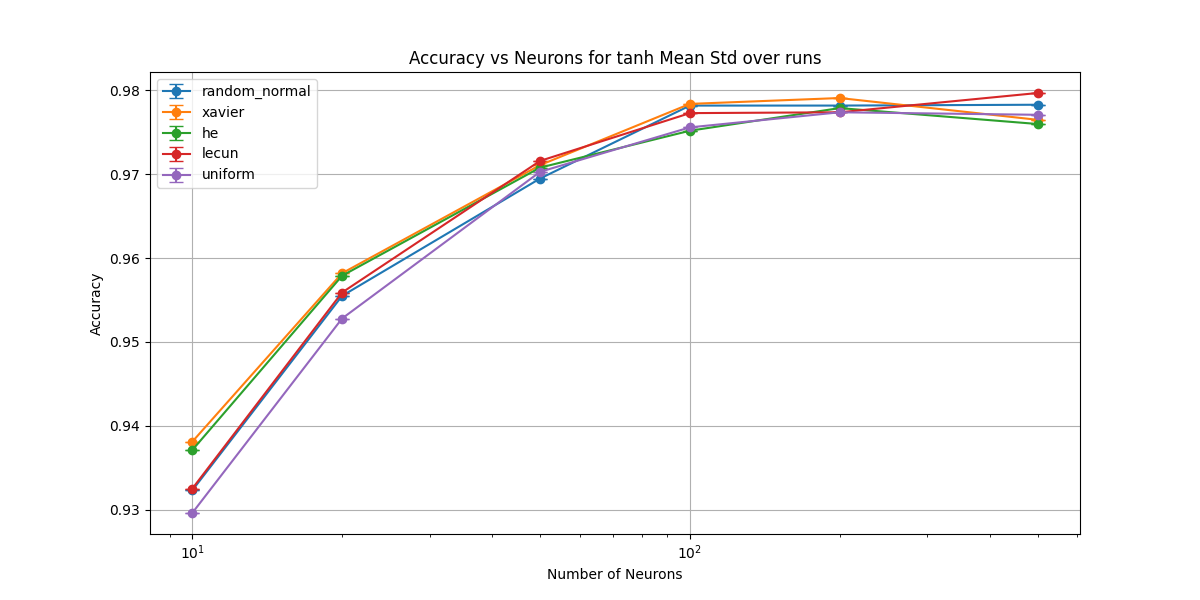
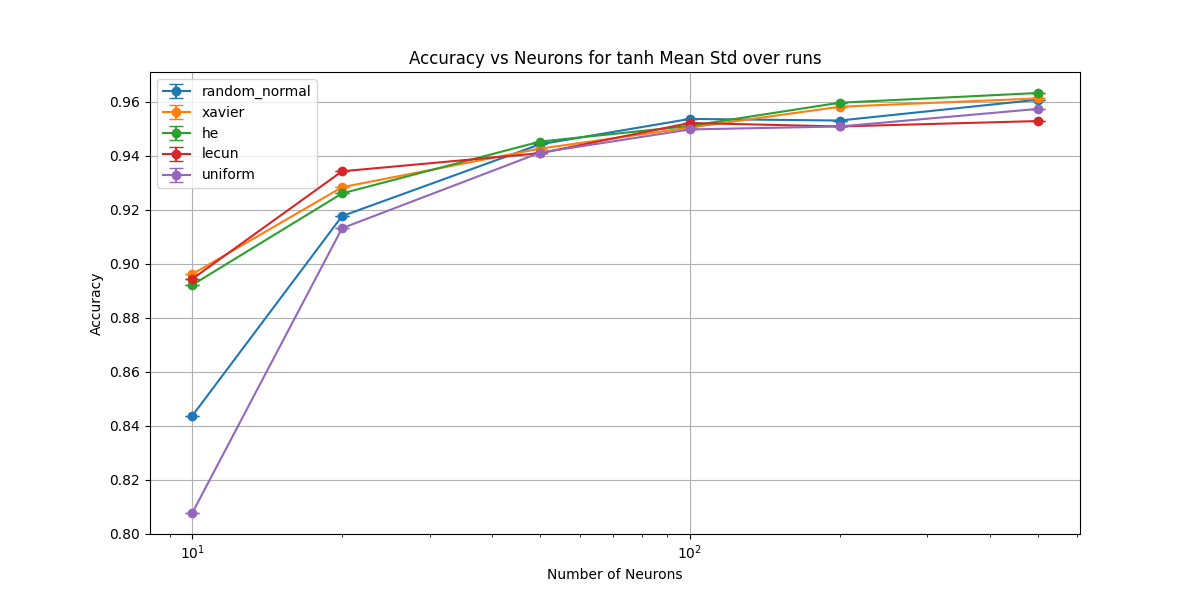
fixing the epoch to one

diff --git a/MLP_PA.py b/MLP_PA.py
@@ -1,35 +1,73 @@
-import numpy as np
 import torch
 import torch.nn as nn
 import torch.optim as optim
 from torch.utils.data import DataLoader, TensorDataset
 from torchvision.datasets import MNIST
 from torchvision.transforms import ToTensor
+import numpy as np
 import matplotlib.pyplot as plt
 import time
 from tqdm import tqdm
 
-# Check if CUDA is available and set device
+# Verificar disponibilidade da CUDA e definir dispositivo
 device = torch.device("cuda" if torch.cuda.is_available() else "cpu")
-print(f"Using device: {device}")
+print(f"Usando dispositivo: {device}")
 
-# Load MNIST dataset
+# ====================== Funções de Rewiring PA ==============================
+def rewiring_torch(weights, seed=None):
+    dimensions = weights.shape
+    if seed:
+        torch.manual_seed(seed)
+    
+    st = torch.zeros(dimensions[1], device=weights.device)
+    for neuron in range(1, dimensions[0]):
+        st = st + weights[neuron - 1]
+        P = st + torch.abs(torch.min(st)) + 1
+        P = P / torch.sum(P)
+        
+        # Criar distribuição multinomial para amostragem
+        targets = torch.multinomial(P, dimensions[1], replacement=False)
+        
+        edges_to_rewire = torch.argsort(weights[neuron])
+        weights[neuron, targets] = weights[neuron, edges_to_rewire]
+    return weights
+
+def PA_rewiring_torch(weights, seed=None):
+    if weights.ndim < 2:
+        raise ValueError("Apenas tensores 2D ou superiores são suportados")
+    
+    original_shape = weights.shape
+    output_neurons = weights.shape[0]
+    input_neurons = weights.numel() // output_neurons
+    
+    weights_out = weights.view((output_neurons, input_neurons)).clone()
+    weights_out = rewiring_torch(weights_out, seed)  # Rewiring nas linhas
+    
+    # Rewiring nas colunas (transpor, rewiring, transpor de volta)
+    weights_out_transposed = weights_out.t()
+    weights_out_transposed = rewiring_torch(weights_out_transposed, seed)
+    weights_out = weights_out_transposed.t()
+    
+    return weights_out.view(original_shape)
+# =============================================================================
+
+# Carregar dataset MNIST
 train_dataset = MNIST(root='./data', train=True, download=True, transform=ToTensor())
 test_dataset = MNIST(root='./data', train=False, download=True, transform=ToTensor())
 
-# Convert to numpy arrays and preprocess
+# Converter para arrays numpy e pré-processar
 x_train = train_dataset.data.numpy().reshape(-1, 784).astype('float32') / 255.0
 y_train = train_dataset.targets.numpy()
 x_test = test_dataset.data.numpy().reshape(-1, 784).astype('float32') / 255.0
 y_test = test_dataset.targets.numpy()
 
-# Convert to PyTorch tensors and move to device
+# Converter para tensores PyTorch e mover para o dispositivo
 x_train_tensor = torch.tensor(x_train, dtype=torch.float32).to(device)
 y_train_tensor = torch.tensor(y_train, dtype=torch.long).to(device)
 x_test_tensor = torch.tensor(x_test, dtype=torch.float32).to(device)
 y_test_tensor = torch.tensor(y_test, dtype=torch.long).to(device)
 
-# Configuration
+# Configuração
 neurons_list = [10, 20, 50, 100, 200, 500]
 init_methods = ['random_normal', 'xavier', 'he', 'lecun', 'uniform']
 activations = {
@@ -37,11 +75,11 @@ activations = {
     'sigmoid': nn.Sigmoid(),
     'tanh': nn.Tanh()
 }
-n_runs = 1
-batch_size = 60
-epochs = 1
+n_runs = 5
+batch_size = 128
+epochs = 10
 
-# Initialize results dictionary (same structure as before)
+# Dicionário de resultados
 results = {
     act_name: {
         init_method: {
@@ -81,10 +119,14 @@ class MLP(nn.Module):
         self.output = nn.Linear(n_neurons, 10)
         self.activation = activation
         
-        # Apply weight initialization
+        # Aplicar inicialização
         self.apply(get_initializer(init_method))
         
-        # Move model to device
+        # Aplicar rewiring uma vez após inicialização
+        with torch.no_grad():
+            self.layer1.weight.data = PA_rewiring_torch(self.layer1.weight.data)
+            self.layer2.weight.data = PA_rewiring_torch(self.layer2.weight.data)
+        
         self.to(device)
     
     def forward(self, x):
@@ -97,11 +139,10 @@ def train_model(model, train_loader, test_loader):
     criterion = nn.CrossEntropyLoss()
     optimizer = optim.Adam(model.parameters())
     
-    # Training loop
+    # Loop de treinamento
     model.train()
     for epoch in range(epochs):
         for inputs, labels in train_loader:
-            # Move data to GPU
             inputs, labels = inputs.to(device), labels.to(device)
             
             optimizer.zero_grad()
@@ -110,7 +151,7 @@ def train_model(model, train_loader, test_loader):
             loss.backward()
             optimizer.step()
     
-    # Evaluation
+    # Avaliação
     model.eval()
     correct = 0
     total = 0
@@ -125,7 +166,7 @@ def train_model(model, train_loader, test_loader):
     return correct / total
 
 def get_weight_stats(model):
-    # Move weights to CPU for numpy conversion if they're on GPU
+    # Mover pesos para CPU para conversão numpy se estiverem na GPU
     W1 = model.layer1.weight.data.cpu().numpy()
     W2 = model.layer2.weight.data.cpu().numpy()
     return {
@@ -135,24 +176,24 @@ def get_weight_stats(model):
         'W2_std': np.std(W2)
     }
 
-# Main experiment loop
+# Loop principal do experimento
 for act_name, activation in activations.items():
-    print(f"\nTesting activation: {act_name}")
+    print(f"\nTestando ativação: {act_name}")
     for init_method in init_methods:
-        print(f"\nInitialization method: {init_method}")
+        print(f"\nMétodo de inicialização: {init_method}")
         for i, n_neurons in enumerate(tqdm(neurons_list)):
             accuracies = []
             train_times = []
             weight_stats_list = []
             
             for run in range(n_runs):
-                # Create data loaders
+                # Criar data loaders
                 train_dataset = TensorDataset(x_train_tensor, y_train_tensor)
                 train_loader = DataLoader(train_dataset, batch_size=batch_size, shuffle=True)
                 test_dataset = TensorDataset(x_test_tensor, y_test_tensor)
                 test_loader = DataLoader(test_dataset, batch_size=batch_size, shuffle=False)
                 
-                # Create and train model
+                # Criar e treinar modelo
                 model = MLP(n_neurons, activation, init_method)
                 
                 start_time = time.time()
@@ -165,13 +206,13 @@ for act_name, activation in activations.items():
                 train_times.append(train_time)
                 weight_stats_list.append(weight_stats)
             
-            # Store results
+            # Armazenar resultados
             results[act_name][init_method]['accuracy_mean'][i] = np.mean(accuracies)
             results[act_name][init_method]['accuracy_std'][i] = np.std(accuracies)
             results[act_name][init_method]['train_time_mean'][i] = np.mean(train_times)
             results[act_name][init_method]['train_time_std'][i] = np.std(train_times)
             
-            # Average weight statistics across runs
+            # Estatísticas médias dos pesos entre as execuções
             avg_weight_stats = {
                 'W1_mean': np.mean([stat['W1_mean'] for stat in weight_stats_list]),
                 'W1_std': np.mean([stat['W1_std'] for stat in weight_stats_list]),
@@ -180,12 +221,16 @@ for act_name, activation in activations.items():
             }
             results[act_name][init_method]['weight_stats'][i] = avg_weight_stats
 
-# Plotting functions (same as before)
+# Função de plotagem (mesma de antes)
 def plot_results(results, activations, init_methods):
-    """Plot all results with error bars"""
-    colors = plt.cm.tab10.colors  # Color palette for different initialization methods
+    """Plotar todos os resultados com barras de erro"""
+    colors = plt.cm.tab10.colors
     
-    # Plot Accuracy vs Neurons for each activation function
+    # Criar diretório de saída
+    import os
+    os.makedirs('plots', exist_ok=True)
+    
+    # Plotar Acurácia vs Neurônios
     for act_name in activations.keys():
         plt.figure(figsize=(12, 6))
         for i, init_method in enumerate(init_methods):
@@ -197,15 +242,16 @@ def plot_results(results, activations, init_methods):
                 color=colors[i]
             )
         plt.xscale('log')
-        plt.xlabel('Number of Neurons')
-        plt.ylabel('Accuracy')
-        title = f'Accuracy_vs_Neurons_for_{act_name}_Mean_Std_over_runs'
-        plt.title(title.replace('_', ' '))  # Show nice title with spaces
+        plt.xlabel('Número de Neurônios')
+        plt.ylabel('Acurácia')
+        title = f'Acurácia_vs_Neurônios_para_{act_name}_Média_Desvio_PA'
+        plt.title(title.replace('_', ' '))
         plt.legend()
         plt.grid()
-        plt.savefig(f"{title}.png")  # Save with proper filename
+        plt.savefig(f'plots/{title}.png', dpi=300, bbox_inches='tight')
+        plt.show()
         
-        # Plot Training Time vs Neurons
+        # Plotar Tempo de Treinamento vs Neurônios
         plt.figure(figsize=(12, 6))
         for i, init_method in enumerate(init_methods):
             data = results[act_name][init_method]
@@ -216,74 +262,76 @@ def plot_results(results, activations, init_methods):
                 color=colors[i]
             )
         plt.xscale('log')
-        plt.xlabel('Number of Neurons')
-        plt.ylabel('Training Time (s)')
-        title = f'Training_Time_vs_Neurons_for_{act_name}'
+        plt.xlabel('Número de Neurônios')
+        plt.ylabel('Tempo de Treinamento (s)')
+        title = f'Tempo_Treinamento_vs_Neurônios_para_{act_name}_PA'
         plt.title(title.replace('_', ' '))
         plt.legend()
         plt.grid()
-        plt.savefig(f"{title}.png")
+        plt.savefig(f'plots/{title}.png', dpi=300, bbox_inches='tight')
+        plt.show()
     
-    # Plot Weight Statistics
+    # Plotar Estatísticas dos Pesos
     for act_name in activations.keys():
         plt.figure(figsize=(15, 10))
         
-        # W1 Mean
+        # W1 Média
         plt.subplot(2, 2, 1)
         for i, init_method in enumerate(init_methods):
             data = results[act_name][init_method]
             w1_means = [stat['W1_mean'] for stat in data['weight_stats']]
             plt.plot(data['neurons'], w1_means, 'o-', label=init_method, color=colors[i])
         plt.xscale('log')
-        plt.xlabel('Number of Neurons')
-        plt.ylabel('Mean Weight Value')
-        plt.title(f'W1 Mean for {act_name}')
+        plt.xlabel('Número de Neurônios')
+        plt.ylabel('Valor Médio do Peso')
+        plt.title(f'W1 Média para {act_name}')
         plt.legend()
         plt.grid()
         
-        # W1 Std
+        # W1 Desvio Padrão
         plt.subplot(2, 2, 2)
         for i, init_method in enumerate(init_methods):
             data = results[act_name][init_method]
             w1_stds = [stat['W1_std'] for stat in data['weight_stats']]
             plt.plot(data['neurons'], w1_stds, 'o-', label=init_method, color=colors[i])
         plt.xscale('log')
-        plt.xlabel('Number of Neurons')
-        plt.ylabel('Weight Std Dev')
-        plt.title(f'W1 Standard Deviation for {act_name}')
+        plt.xlabel('Número de Neurônios')
+        plt.ylabel('Desvio Padrão do Peso')
+        plt.title(f'W1 Desvio Padrão para {act_name}')
         plt.legend()
         plt.grid()
         
-        # W2 Mean
+        # W2 Média
         plt.subplot(2, 2, 3)
         for i, init_method in enumerate(init_methods):
             data = results[act_name][init_method]
             w2_means = [stat['W2_mean'] for stat in data['weight_stats']]
             plt.plot(data['neurons'], w2_means, 'o-', label=init_method, color=colors[i])
         plt.xscale('log')
-        plt.xlabel('Number of Neurons')
-        plt.ylabel('Mean Weight Value')
-        plt.title(f'W2 Mean for {act_name}')
+        plt.xlabel('Número de Neurônios')
+        plt.ylabel('Valor Médio do Peso')
+        plt.title(f'W2 Média para {act_name}')
         plt.legend()
         plt.grid()
         
-        # W2 Std
+        # W2 Desvio Padrão
         plt.subplot(2, 2, 4)
         for i, init_method in enumerate(init_methods):
             data = results[act_name][init_method]
             w2_stds = [stat['W2_std'] for stat in data['weight_stats']]
             plt.plot(data['neurons'], w2_stds, 'o-', label=init_method, color=colors[i])
         plt.xscale('log')
-        plt.xlabel('Number of Neurons')
-        plt.ylabel('Weight Std Dev')
-        plt.title(f'W2 Standard Deviation for {act_name}')
+        plt.xlabel('Número de Neurônios')
+        plt.ylabel('Desvio Padrão do Peso')
+        plt.title(f'W2 Desvio Padrão para {act_name}')
         plt.legend()
         plt.grid()
         
         plt.tight_layout()
-        plt.savefig(f'Weight_Statistics_for_{act_name}.png')
+        plt.savefig(f'plots/Estatísticas_Pesos_para_{act_name}_PA.png', dpi=300, bbox_inches='tight')
+        plt.show()
     
-    # Max Accuracy per Initialization Method
+    # Máxima Acurácia por Método de Inicialização
     plt.figure(figsize=(15, 5))
     for i, act_name in enumerate(activations.keys()):
         plt.subplot(1, len(activations), i+1)
@@ -292,12 +340,13 @@ def plot_results(results, activations, init_methods):
             for init, data in results[act_name].items()
         }
         plt.bar(max_accuracies.keys(), max_accuracies.values(), color=colors[:len(init_methods)])
-        plt.xlabel('Initialization Method')
-        plt.ylabel('Max Mean Accuracy')
-        plt.title(f'Max Accuracy for {act_name}')
+        plt.xlabel('Método de Inicialização')
+        plt.ylabel('Máxima Acurácia Média')
+        plt.title(f'Máxima Acurácia para {act_name}')
         plt.grid()
     plt.tight_layout()
-    plt.savefig('Max_Accuracy_per_Initialization_Method.png')
+    plt.savefig('plots/Máxima_Acurácia_por_Método_Inicialização_PA.png', dpi=300, bbox_inches='tight')
+    plt.show()
 
-# Generate plots
+# Gerar gráficos
 plot_results(results, activations, init_methods)
